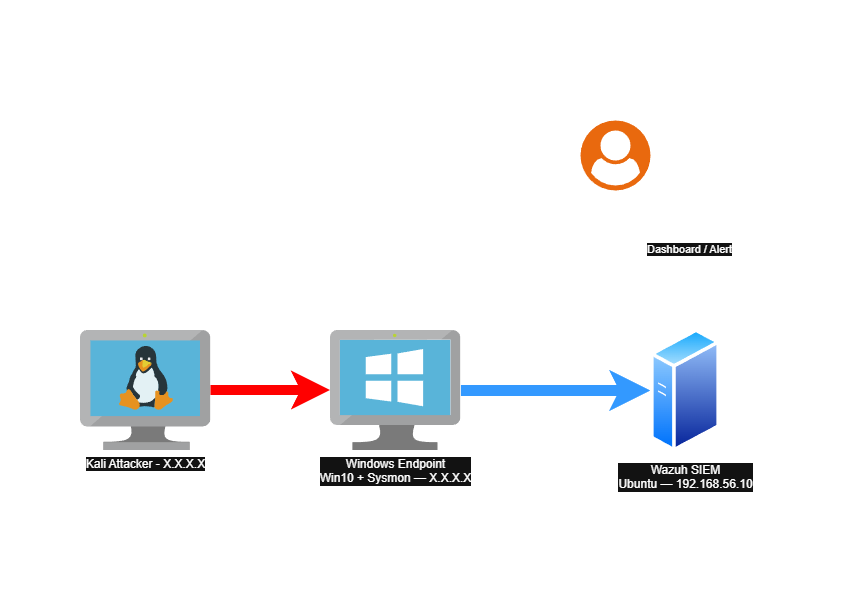
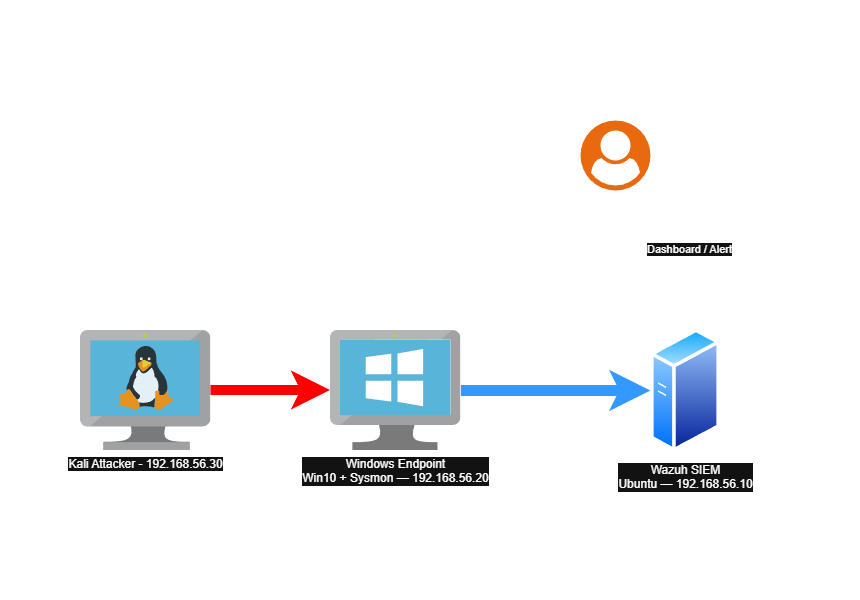
Updated readme, created first scenario

Changed region(s): [[0.3326, 0.75, 0.5744, 0.81], [0.0605, 0.75, 0.2721, 0.78]]

diff --git a/incident-reports/01-web-sqli/IR-2026-001-sqli.md b/incident-reports/01-web-sqli/IR-2026-001-sqli.md
@@ -1,0 +1,87 @@
+# Incident Report — TITLE
+
+<!--
+Example: "Incident Report — Credential Dumping on win-endpoint"
+-->
+
+## Metadata
+
+| Field          | Value |
+|----------------|-------|
+| Report ID      | IR-2026-001 |
+| Date / Time    | 2026-06-17, 06:22 (-0700) |
+| Analyst        | Valerio Porcile |
+| Severity       | High  |
+| Status         | Closed  |
+| Classification | True Positive |
+
+---
+
+## Executive Summary
+
+A SQL injection attack was detected against the DVWA web application hosted on the Windows endpoint (192.168.56.20). The attempt originated from an internal host (192.168.56.30) using an automated tool. The malicious request was identified through a custom detection rule analyzing web server logs. This was a controlled lab exercise; in a production context, a successful SQLi against this application could have exposed database contents.
+
+---
+
+## Timeline
+
+
+
+
+
+| Time (UTC) | Event |
+|------------|-------|
+| 06:22   | SQL injection request sent from 192.168.56.30 to /dvwa/vulnerabilities/sqli/  |
+| 06:22  | Request logged in Apache access.log, forwarded to Wazuh by the agent |
+| 06:22   | Wazuh custom rule 100100 triggered — "Possible SQL injection attempt", level 10 |
+| 06:23   | Alert reviewed and confirmed as true positive during triage |
+
+---
+
+## Investigation
+
+The alert (rule 100100, level 10) flagged a web request to the DVWA SQL injection endpoint containing SQL metacharacters. Pivoting on the source IP (192.168.56.30), the request was traced in the Apache access log: GET /dvwa/vulnerabilities/sqli/?id=1' OR '1'='1-- -. Two indicators confirmed malicious intent: the URL parameter contained a classic SQL tautology (OR '1'='1) with a comment terminator (-- -), and the user-agent was curl/8.12.1, indicating an automated tool rather than interactive browsing. No other request patterns from the same source suggested broader scanning at this stage. The combination of payload and tooling confirmed a deliberate SQL injection attempt — true positive.
+
+---
+
+## Indicators of Compromise (IOCs)
+
+
+| Type        | Value | Notes |
+|-------------|-------|-------|
+| IP address  | 192[.]168[.]56[.]30 | Attacker IP |
+| User-agent   | curl/8.12.1 | Automated tooling, non-browser|
+| URI  |  /dvwa/vulnerabilities/sqli/?id=1' OR '1'='1-- - | SQLi payload in query string |
+| Pattern     | ' OR '1'='1 | SQL tautology used to bypass query logic |
+
+---
+
+## MITRE ATT&CK Mapping
+
+| Tactic | Technique | ID |
+|--------|-----------|----|
+| Initial Access | Exploit Public-Facing Application | T1190 |
+
+
+
+---
+
+## Impact Assessment
+
+The target was a deliberately vulnerable application (DVWA) at security level "low". A successful SQL injection of this type could allow an attacker to bypass query logic and extract arbitrary database records (user credentials, application data). In a real environment, this could lead to data exfiltration and, depending on database privileges, further compromise. No lateral movement or privilege escalation was observed in this scenario.
+
+---
+
+## Recommendations
+
+Immediate response: block the offending source IP at the network/WAF level; review whether the request returned data (response size/status) to assess success.
+
+Hardening/prevention: use parameterized queries / prepared statements in the application; deploy a WAF with SQLi signatures; apply least-privilege to the database account.
+
+Detection improvement: refine rule 100100 to reduce false positives (require a quote together with a SQL keyword rather than any single marker); add correlation for repeated SQLi attempts from the same source.
+
+---
+
+## Appendix
+
+Screenshots: attack execution (Kali), raw Apache log line, Wazuh alert 100100. See [screenshots](scenarios/01-web-sqli/screenshots/). Detection rule: [sqli-sigma-rule.yml](detection-rules/sqli-sigma-rule.yml) and Wazuh local_rules.xml rule 100100.

diff --git a/scenarios/01-web-sqli/README.md b/scenarios/01-web-sqli/README.md
@@ -1,0 +1,74 @@
+# Scenario 01 — Web Application SQL Injection
+
+## Summary
+
+SQL injection attack against DVWA hosted on the Windows endpoint, launched from the Kali attacker. The attack was not caught by Wazuh's default ruleset, so a custom detection rule was written to identify SQLi patterns in Apache access logs, mapped to MITRE T1190.
+
+| Field            | Value |
+|------------------|-------|
+| MITRE Tactic     | Initial Access |
+| MITRE Technique  | T1190 — Exploit Public-Facing Application |
+| Target           | win-endpoint (192.168.56.20) — DVWA on XAMPP/Apache |
+| Attacker         | kali-attacker (192.168.56.30) |
+| Tools used       | browser , curl |
+| Detection source | Apache access.log + custom Wazuh rule 100100 |
+
+---
+
+
+## 1. Attack
+
+
+From Kali, SQLi request to the vulnerable page of DVWA:
+
+```bash
+curl "http://192.168.56.20/dvwa/vulnerabilities/sqli/?id=1%27+OR+%271%27%3D%271--+-&Submit=Submit"
+```
+
+Payload decoded: ' OR '1'='1-- -
+
+![Command](screenshots/KaliAttack.png)
+---
+
+## 2. Telemetry
+
+Apache registers the request in C:\xampp\apache\logs\access.log:
+
+```bash 
[phone redacted] - - [...] "GET /dvwa/vulnerabilities/sqli/?id=1%27+OR+%271%27%3D%271--+-&Submit=Submit HTTP/1.1" 302 - "-" "curl/8.12.1"
+```
+
+Suspect indicators: SQL URL-encoded payload in the parameters (%27 = ', OR, --) and curl user-agent instead of a browser. Important: the normal request (status 200/302) doesn't trigger any  Wazuh rule by default.
+
+---
+
+## 3. Detection
+
+Wazuh's default detection doesn't cover this SQLi. Custom rule added in local_rules.xml:
+
+```xml
+<rule id="100100" level="10">
+  <if_sid>31100</if_sid>
+  <url>%27|%22| OR | UNION | SELECT |--|%3D|1=1</url>
+  <description>Possible SQL injection attempt in web request URL</description>
+  <mitre><id>T1190</id></mitre>
+</rule>
+```
+
+Searches for SQLi typical markers in the URL ( ' , keyword SQL, comments, 1=1).
+
+---
+
+## 4. Triage
+
+Alert received: "Possible SQL injection attempt", level 10, on /dvwa/vulnerabilities/sqli/. Pivot: The source IP is 192.168.56.30; the user agent curl indicates an automated tool, not legitimate browsing; the payload in the parameters is an SQL tautology. Conclusion: True positive, SQL injection attempt. In a real-world scenario, I would check whether the request returned data (status/response size) to determine if the attack was successful, and I would look for other requests from the same IP to reconstruct the attack session.
+
+![Wazuh log](screenshots/WazuLog.png)
+
+---
+
+## 5. Outcome
+
+True positive, detection works. Limitation of the current rule: the pattern is broad (e.g., = or -- also appear in legitimate traffic) and will generate false positives. Improvement: Require the presence of a single quote + SQL keyword, or use Wazuh's more specific web rules as a base. Next step: test more evasive SQLi (double encoding, DVWA's security level medium).
+
+

diff --git a/docs/architecture.md b/docs/architecture.md
@@ -11,17 +11,17 @@ This project is a self-contained SOC home lab built to practice blue-team detect
 ## Machines
 
 
-| Hostname        | Role              | OS               | IP             | Resources        |
-|-----------------|-------------------|------------------|----------------|------------------|
-| wazuh-siem      | SIEM / Manager    | Ubuntu Server    | X.X.X.X        | 4 vCPU / 8 GB RAM |
-| win-endpoint    | Victim / Endpoint | Windows 10/11    | X.X.X.X        | 2 vCPU / 4 GB RAM |
-| kali-attacker   | Attacker          | Kali Linux       | X.X.X.X        | 2 vCPU / 4 GB RAM |
+| Hostname        | Role              | OS               | IP             | Resources         |
+|-----------------|-------------------|------------------|----------------|-------------------|
+| wazuh-siem      | SIEM / Manager    | Ubuntu Server    | 192.168.56.10  | 4 vCPU / 8 GB RAM |
+| win-endpoint    | Victim / Endpoint | Windows 10/11    | 192.168.56.20  | 2 vCPU / 4 GB RAM |
+| kali-attacker   | Attacker          | Kali Linux       | 192.168.56.30  | 2 vCPU / 4 GB RAM |
 
 ---
 
 ## Network Design
 
-The lab runs on an isolated host-only network (X.X.X.X ). All three VMs can communicate with each other, but the network has no route to the host's LAN or to internet. This isolation is a security choice: it contains any malicious activity inside the lab, preventing it to reach real systems.  The main trade-off is that scenarios relying on outbound connectivity (real C2 channels, remote payload staging, DNS-based exfiltration) can only be approximated locally; for the current detection-focused scope this is an acceptable limitation.
+The lab runs on an isolated host-only network (192.168.56.0/24). All three VMs can communicate with each other, but the network has no route to the host's LAN or to internet. This isolation is a security choice: it contains any malicious activity inside the lab, preventing it to reach real systems.  The main trade-off is that scenarios relying on outbound connectivity (real C2 channels, remote payload staging, DNS-based exfiltration) can only be approximated locally; for the current detection-focused scope this is an acceptable limitation.
 
 ---
 

diff --git a/README.md b/README.md
@@ -51,7 +51,8 @@ soc-home-lab/
 
 | #  | Scenario | MITRE Technique | Status |
 |----|----------|-----------------|--------|
-| 01 | [Empty Scenario](./scenarios/empty-scenario/) | TXXXX — Empty scenario test | 📋 |
+| 01 | [SQLi WebApp](./scenarios/01-web-sqli/README.md) | T1190  — Web Application SQL Injection | ✅ |
+| 02 | [Credential dumping](./scenarios/02-credential-dumping/README.md) | T1003.001  — Credential dumping (Mimikatz) | 📋 |
 
 ---
 